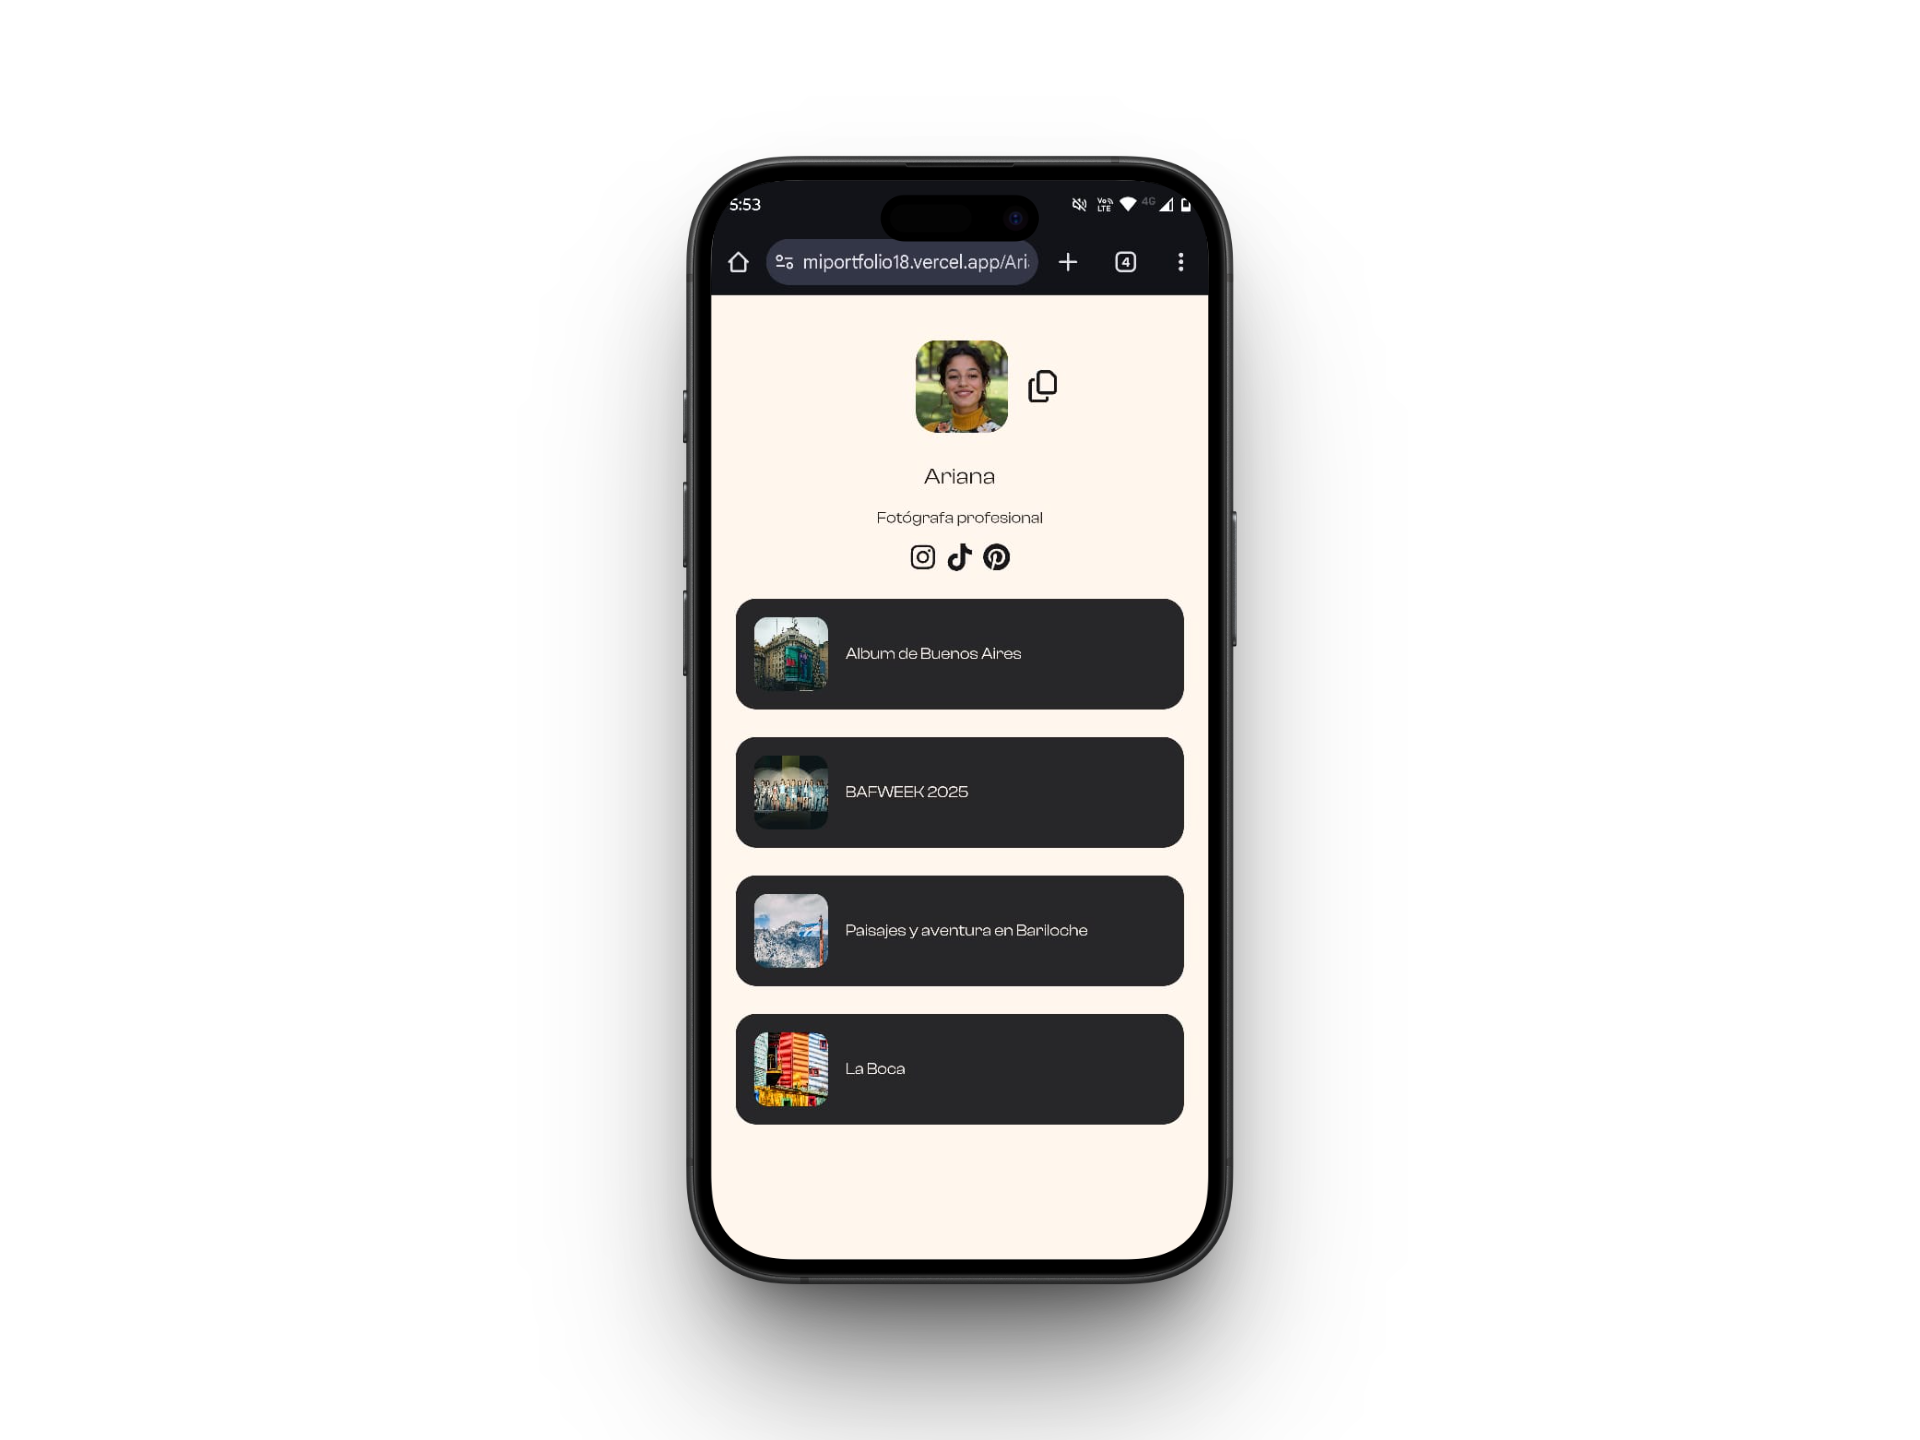
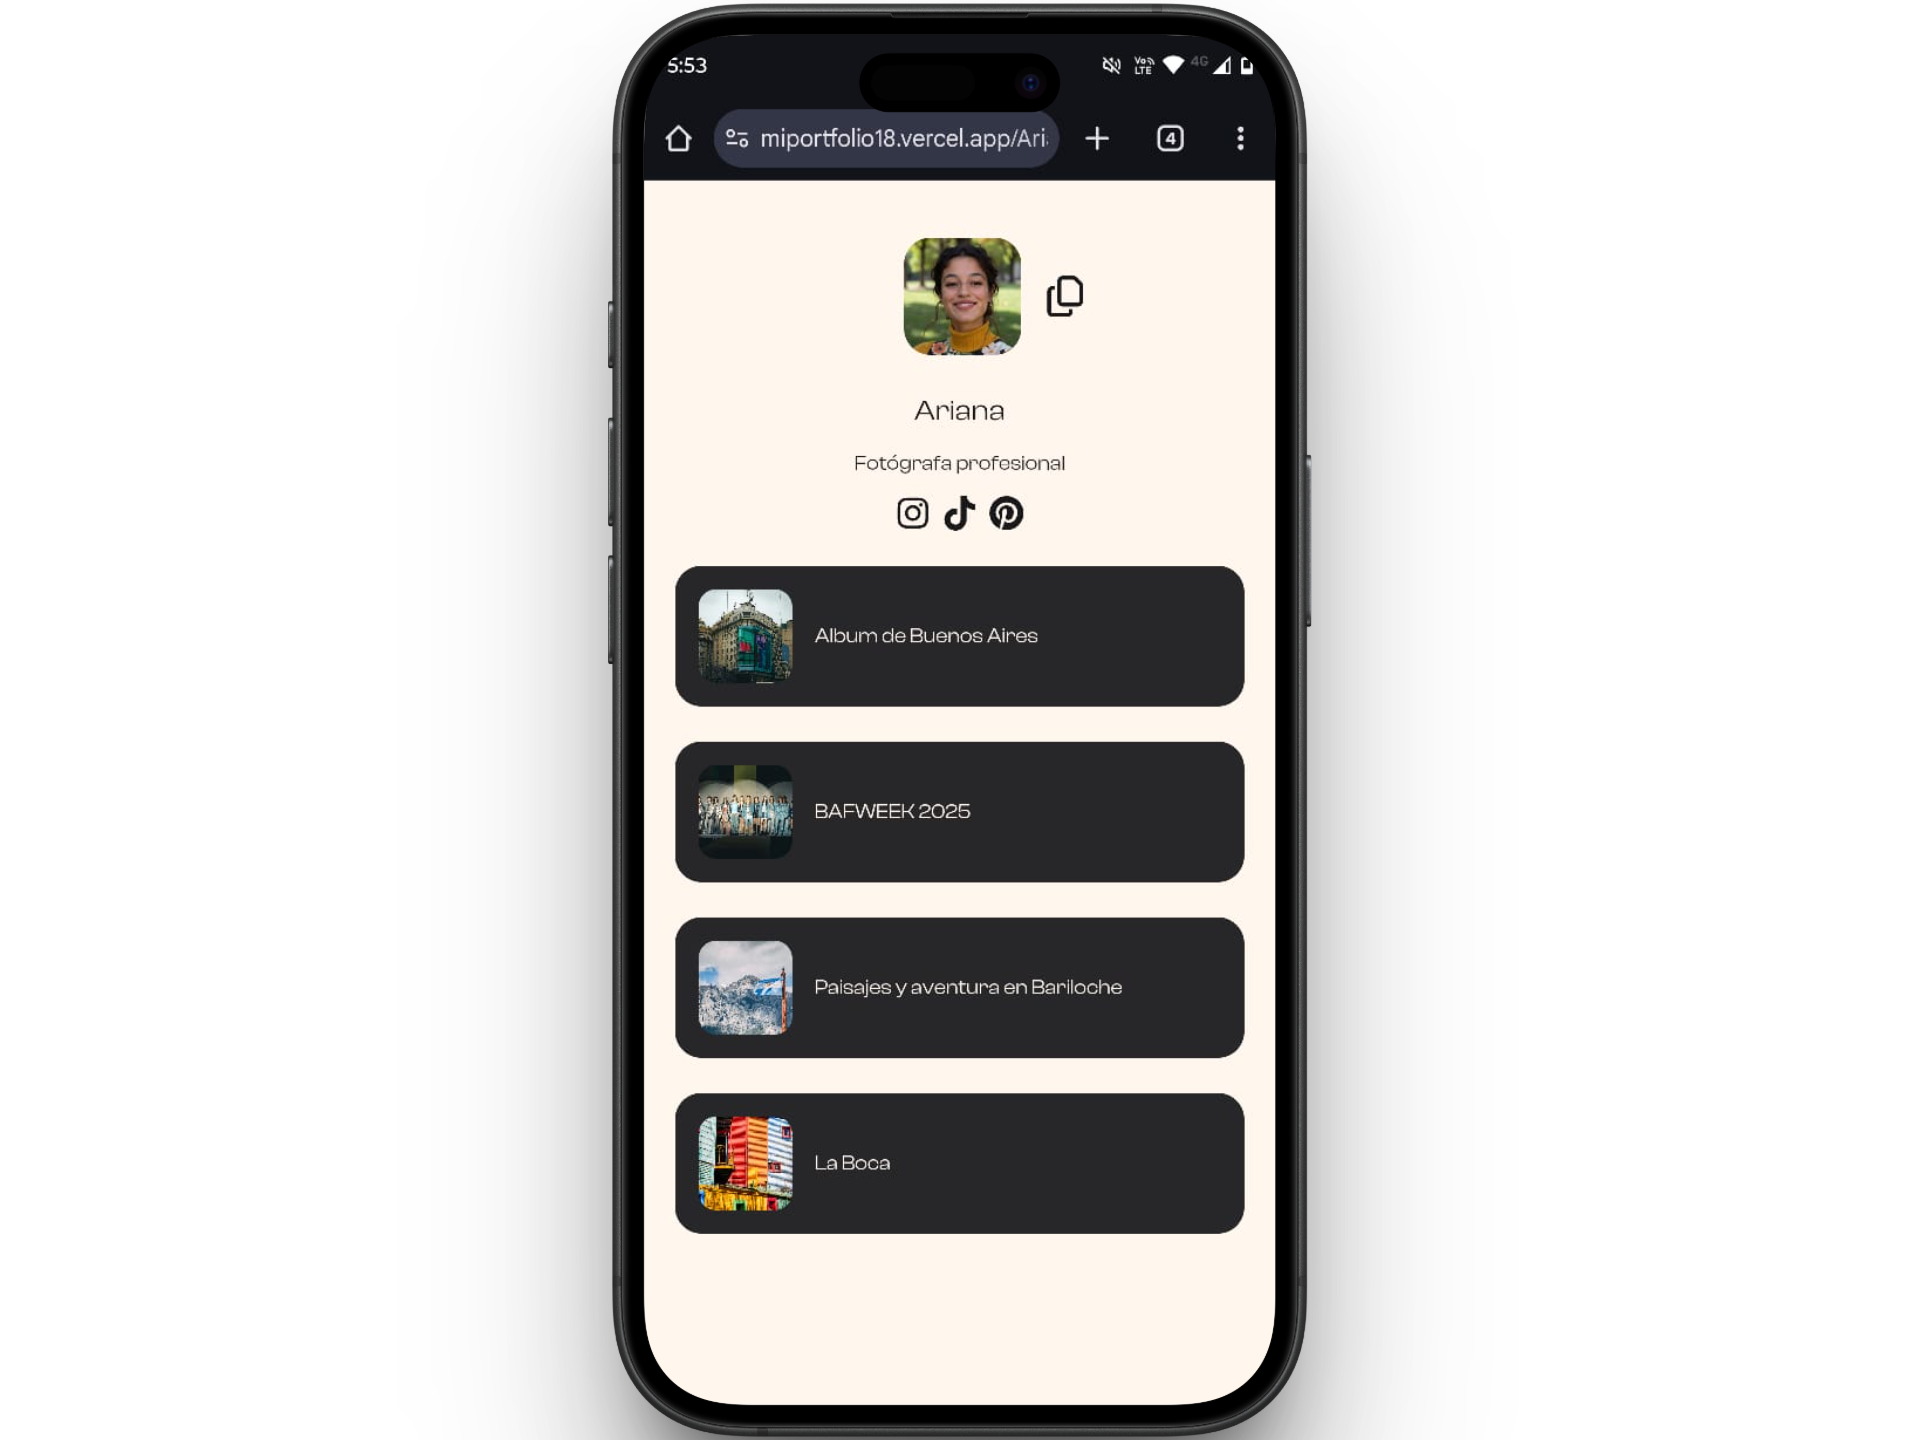
cors

Changed region(s): [[0.2812, 0.0, 0.7188, 1.0]]

diff --git a/client/src/pages/HomePage.jsx b/client/src/pages/HomePage.jsx
@@ -3,7 +3,7 @@ import { usePlans } from "../context/PlanContext";
 import { Link } from "react-router-dom";
 import Logo from "../components/Logo.jsx";
 import Logo2 from "../components/Logo2.jsx";
-import CellMockup from "../assets/Mockup.png";
+import CellMockup from "../assets/Mockup3.png";
 import CellMockup2 from "../assets/Mockup2.png";
 import Navbar from "../components/Navbar";
 import { BsFileEarmarkArrowUp } from "react-icons/bs";
@@ -21,7 +21,7 @@ function HomePage() {
 
       <section className="flex flex-col justify-between items-center md:items-start bg-neutral-900 px-10 py-12 gap-6 md:flex md:flex-row md:justify-between md:px-10 md:py-12">
         <div className="md:w-[60%] text-orange-50 md:pt-8">
-          <h1 className="text-3xl font-semibold sm:text-4xl md:text-5xl lg:text-[90px]">
+          <h1 className="text-3xl font-semibold sm:text-4xl md:text-5xl lg:text-[70px]">
             <span>Crea tu portfolio con miportfolio.</span>
           </h1>
           <p className="text-lg mt-8 md:text-xl">
@@ -55,18 +55,20 @@ function HomePage() {
             </svg>
           </Link>
         </div>
-        <div className="w-full xxs:w-[95%] xs:w-[80%] md:w-[40%] flex justify-center">
+        <div className="w-full xxs:w-[95%] xs:w-[80%] md:w-[60%] flex justify-center">
           <img
             src={CellMockup}
             alt="Imagen de un perfil de miportfolio."
-            className=""
+            className="w-full h-full"
           />
         </div>
       </section>
 
-      <section className=" px-8 flex flex-col md:flex-row border-t">
-        <div className="w-[50%] py-32 pr-16">
-          <h2 className="text-7xl font-semibold">Compartí tus trabajos</h2>
+      <section className="px-8 flex flex-col md:flex-row border-t">
+        <div className="lg:w-[50%] lg:py-32 lg:pr-16 mt-6">
+          <h2 className="text-3xl font-semibold sm:text-4xl md:text-5xl lg:text-7xl ">
+            Compartí tus trabajos
+          </h2>
           <p className="mt-10 text-lg">
             Si tu especialidad puede ser compartida mediante una foto, un video
             o un pdf, miportfolio es ideal para vos.
@@ -75,7 +77,7 @@ function HomePage() {
         <img
           src={CellMockup2}
           alt="Imagen de un perfil de miportfolio."
-          className="w-[50%]"
+          className="lg:w-[50%] my-16"
         />
       </section>
 

diff --git a/server/src/app.js b/server/src/app.js
@@ -24,8 +24,8 @@ app.use(cookieParser());
 
 app.use(
   cors({
-    // origin: "https://miportfolio18.vercel.app",
-    origin: "http://localhost:5173",
+    origin: "https://miportfolio18.vercel.app",
+    // origin: "http://localhost:5173",
     // origin: "https://web.postman.co",
     credentials: true,
   })
